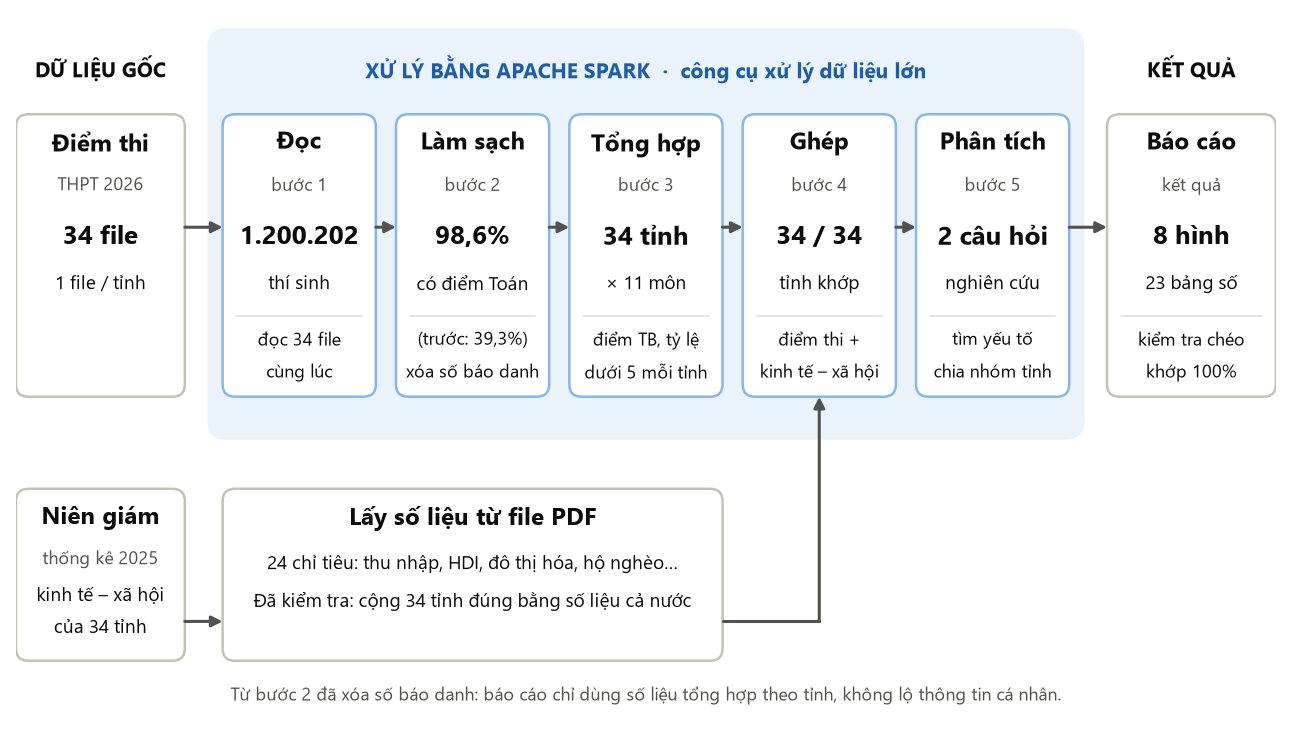
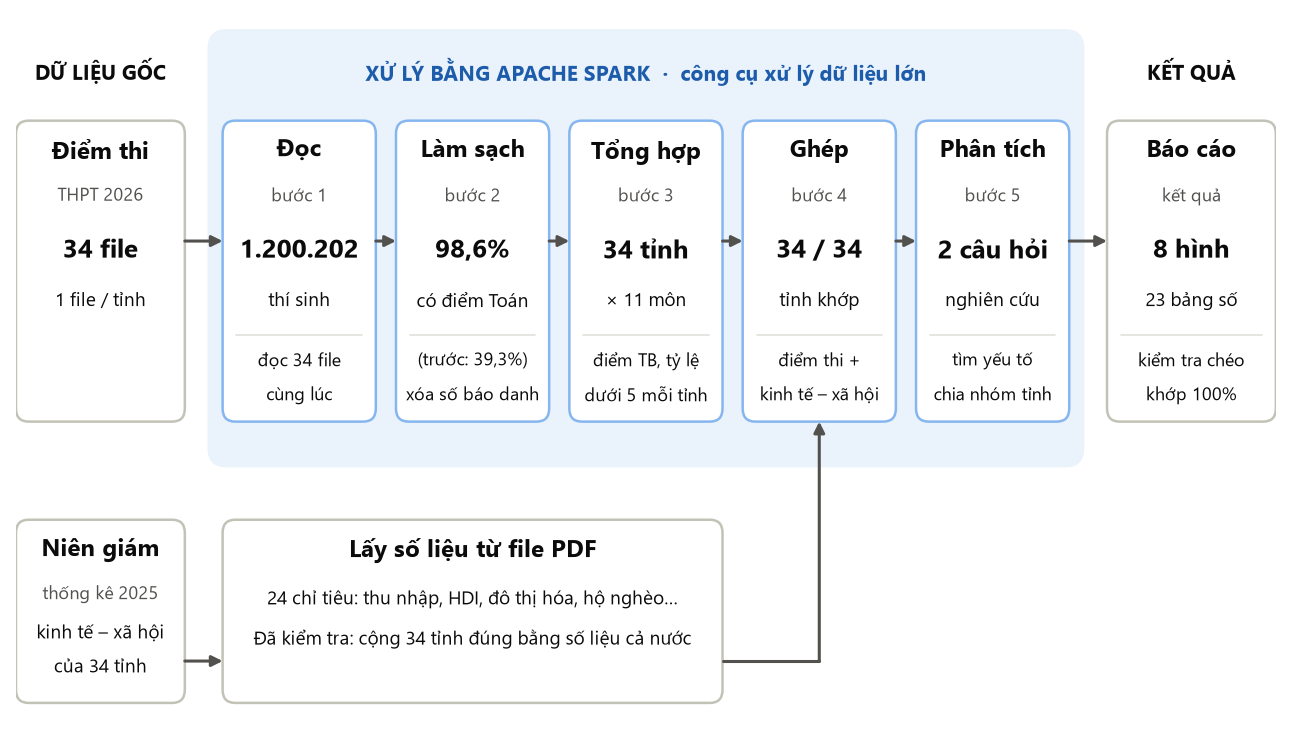
H4.1: bỏ dòng ghi chú cuối hình; ghi lịch review kiến thức vào CLAUDE.md

diff --git a/bao_cao/ve_hinh.py b/bao_cao/ve_hinh.py
@@ -121,7 +121,7 @@ def h4_1():
     so_hinh = 8
 
     fig, ax = plt.subplots(figsize=(W, 3.5))
-    ax.set_axis_off(); ax.set_xlim(0, 100); ax.set_ylim(-3, 54)
+    ax.set_axis_off(); ax.set_xlim(0, 100); ax.set_ylim(0.5, 54)
     fig.subplots_adjust(0, 0, 1, 1)
     R = fig.canvas.get_renderer()
 
@@ -220,9 +220,7 @@ def h4_1():
     gx = xs[3] + w / 2
     ax.plot([px + pw, gx], [yb, yb], color=INK2, lw=1.1, zorder=4)
     mui_ten(gx, yb, gx, BOX_Y)
-
-    ax.text(50, -0.6, "Từ bước 2 đã xóa số báo danh: báo cáo chỉ dùng số liệu tổng hợp theo tỉnh, "
-            "không lộ thông tin cá nhân.", fontsize=6.5, color=INK2, va="top", ha="center")
+    # Ý "đã xóa SBD, chỉ dùng số liệu tổng hợp" được viết trong báo cáo (mục 2.4), không ghi trên hình.
     save(fig, "H4_1_pipeline")
 
 
